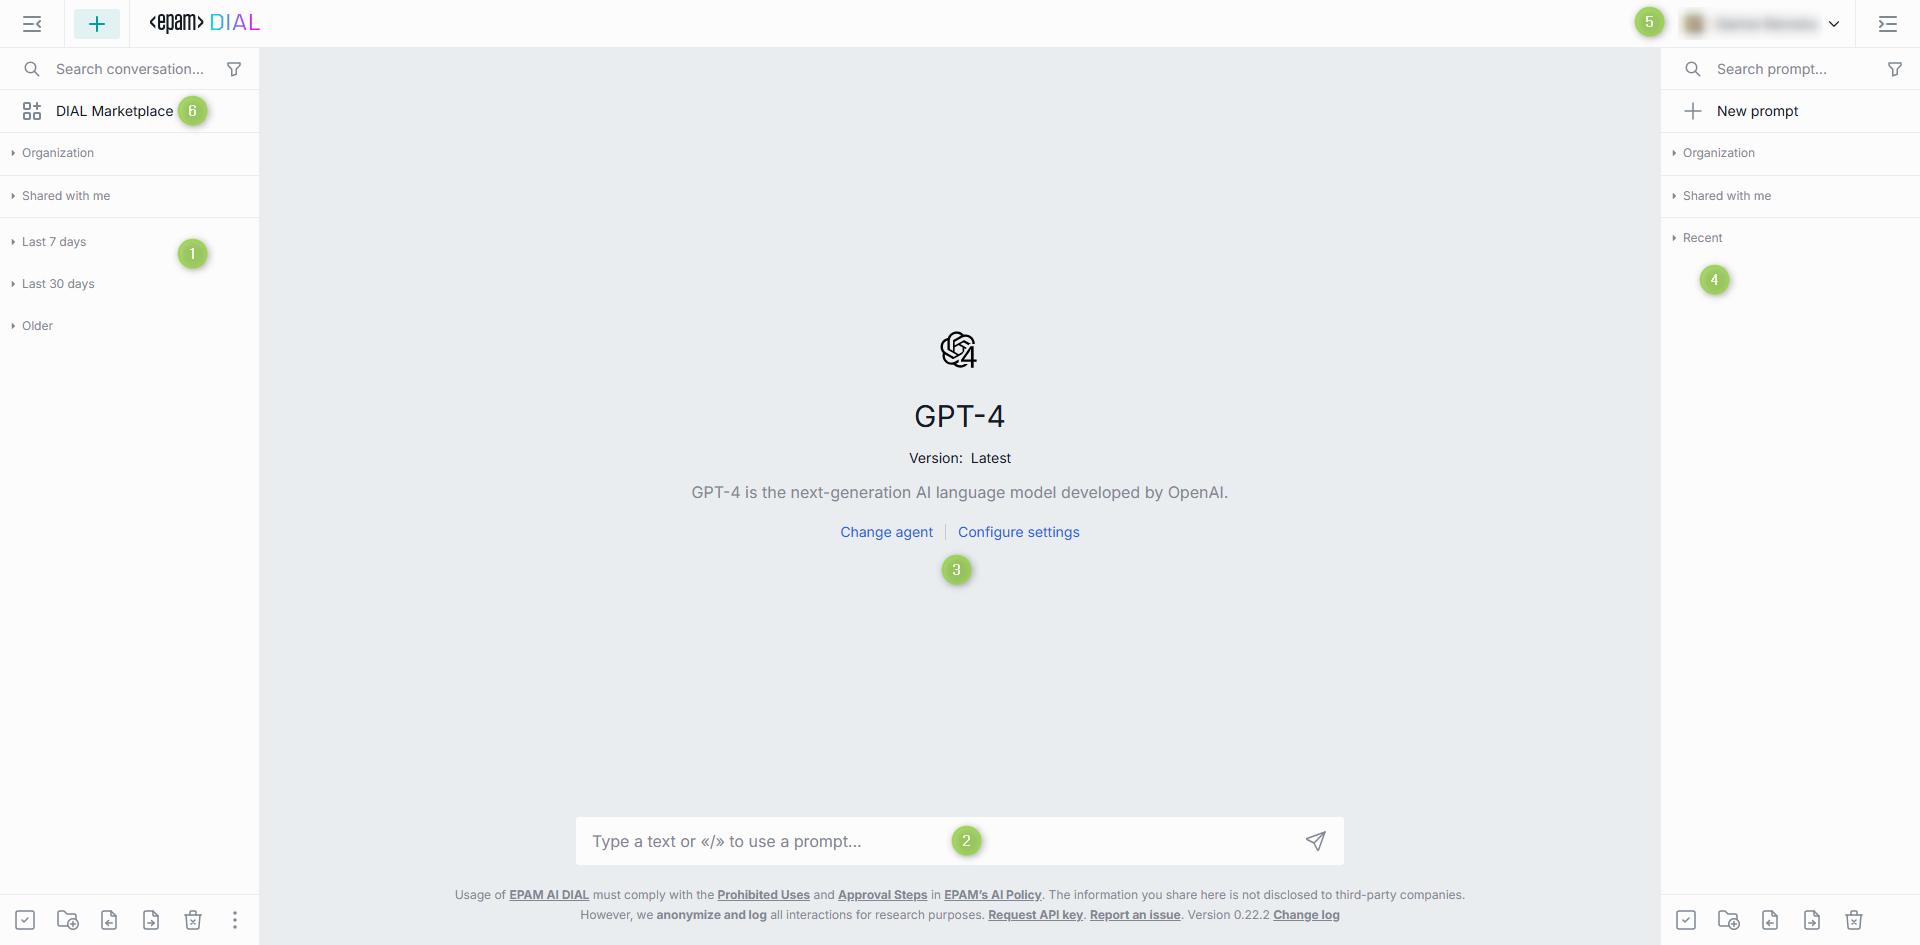
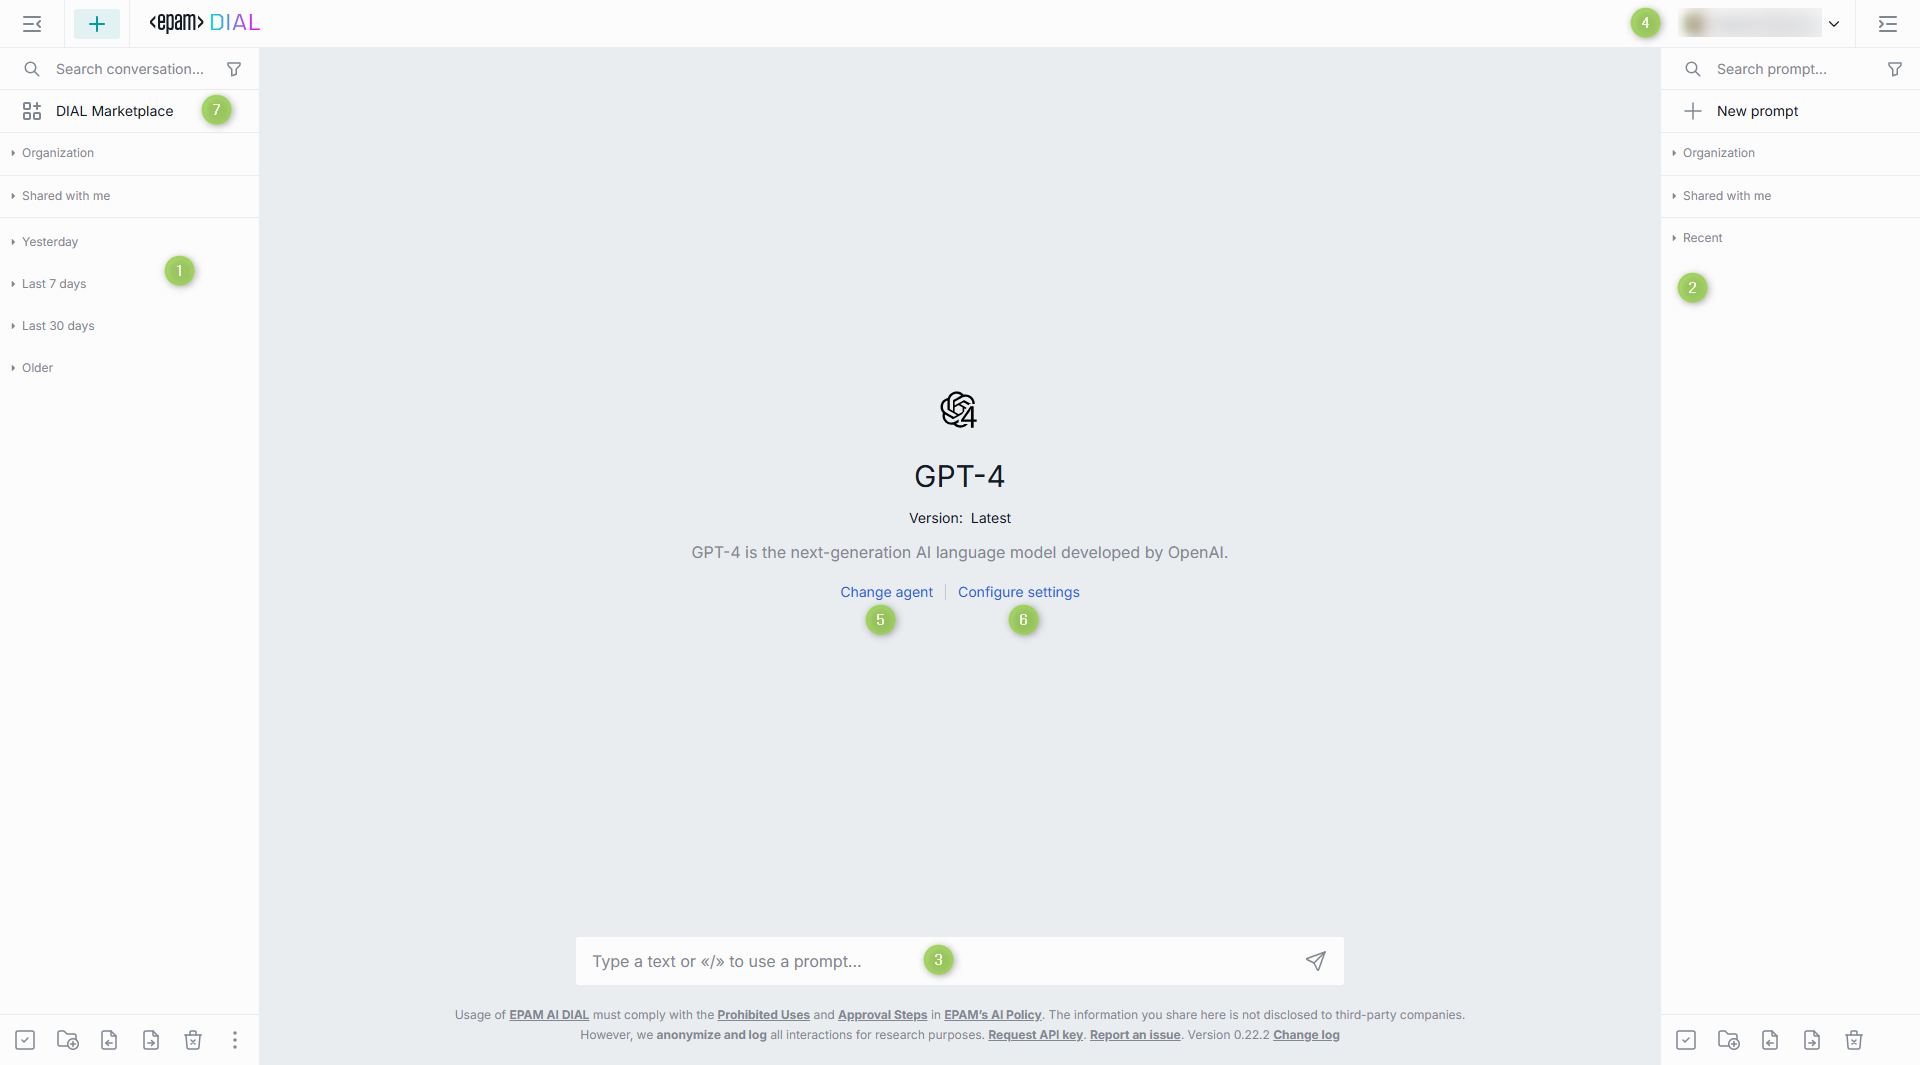
review

diff --git a/docs/user-guide.md b/docs/user-guide.md
@@ -28,11 +28,12 @@ You can also refer to other topics in this documentation:
 The AI DIAL Chat application user interface has several main sections:
 
 1. [Conversations](#conversations): Here, you can access and manage your conversations. You can collapse and expand the panel by clicking the **Hide panel** icon above it.
-2. [Chat](#chat): Use this section to enter a prompt, view results, and interact with conversational agents.
-3. [Conversation settings](#conversation-settings): by default, this section displays the last conversational agent used by the user. In this section, you can modify settings of the selected agent or change the agent.
-4. [Prompts](#prompts): In this section, you can work with prompts: create new templates, update them, and organize them in folders. You can collapse and expand the panel by clicking the **Hide panel** icon above it.
-5. [User Settings](#user-settings): In your user settings, you can customize the color theme (dark or light), replace the standard logo and access other UI customization options.
-6. [DIAL Marketplace](#marketplace): Marketplace displays all conversational agents (applications, language models and assistants) available on your DIAL environment. In My workspace, you can gather conversational agents that you want to be at hand and add custom applications.
+2. [Prompts](#prompts): In this section, you can work with prompts: create new templates, update them, and organize them in folders. You can collapse and expand the panel by clicking the **Hide panel** icon above it.
+3. [Chat](#chat): Use this section to enter a prompt, view results, and interact with conversational agents.
+4. [User Settings](#user-settings): In your user settings, you can customize the color theme (dark or light), replace the standard logo and access other UI customization options.
+5. [Agents](#agents): you can view and change conversational agent before or during a conversation.
+6. [Conversation settings](#conversation-settings): By default, this section displays the last conversational agent used by the user. In this section, you can modify settings of the selected agent or change the agent.
+7. [DIAL Marketplace](#marketplace): Marketplace displays all conversational agents (applications, language models and assistants) available on your DIAL environment. In My workspace, you can gather conversational agents that you want to be at hand and add custom applications.
 
 ![](./img/home.png)
 
@@ -41,6 +42,94 @@ The AI DIAL Chat application user interface has several main sections:
 In the AI DIAL, a conversation is a dialogue between a conversational agent, such as a language model, assistant, or application, and a human user. The agent uses natural language to interact with a human and receive/give a feedback. Within one conversation, you can refer to previous questions and answers. But different conversations don't share context.
 
 > All your conversations are stored on the server, and you can access them from any device you use.
+
+### Agents
+
+In AI DIAL Chat you can have a conversation with several types of agents: language models, applications and assistants. You can access all the available agents in [DIAL Marketplace](#dial-marketplace) and add them to [My workspace](#my-workspace). Refer to [Conversational Agents](#conversational-agents) to learn more about them.
+
+##### To change agent
+
+By default, the main window displays the last agent used by the user. You can proceed and have a dialog with this agent or change it before starting a conversation or switch to a different one during the conversation:
+
+Before you begin a conversation, click **Change agent** to invoke the **Select an agent for conversation** window. Here, you can choose among the added agents or navigate to My workspace section.
+
+![](./img/change-agent.png)
+
+In the middle of a conversation, you can view information about the current agent and change it by clicking the agent icon. 
+
+![](./img/change-agent2.png)
+
+### Conversation Settings
+
+> **Note**: The conversation settings can vary based on the agent selected. It's possible that some agents might not have any configurable settings.
+
+In the Conversation Settings, you can access and modify the following components depending on the selected agent:
+
+- [System prompt](#system-prompt)
+- [Temperature](#temperature)
+- [Addons](#addons)
+
+You can modify the conversation settings before or during the conversation:
+
+**Before** you begin a new conversation, click **Configure settings** in the main chat area to invoke the **Conversation settings** window.
+
+![](./img/chat-settings-new.png)
+
+**During** the conversation, in the conversation header you can view and modify conversation settings by clicking the **gear** icon.
+
+In the conversation header menu you also can: 
+
+* View and change the current agent: you can view information about the current agent and change it by clicking the agent icon. Refer to [Agents](#agents) to learn more.
+* Access conversation action menu: click the three-dot menu icon to access the standard conversation [actions menu](#actions).
+* Clear conversation history: click the eraser icon to clear the conversation history and start from scratch. 
+
+![](./img/chat-settings.png)
+
+#### System Prompt
+
+The system prompt in AI DIAL acts as the initial set of instructions provided to the model. It serves as a compass for the model, guiding it through the conversational landscape to ensure it remains on track and stays aligned with the intended purpose and desired outcome of the conversation.
+
+Type `/` in the text box to select any previously created prompt as a system prompt (for details, refer to the [Create](#create-1) in Prompts), and it will set the context and tone for the whole conversation.
+
+![](./img/system_prompt.png)
+
+<!-- ##### Example
+
+Let's compare a conversation with a system prompt selected and a conversation without a system prompt. For illustration purposes, we are going to use the compare mode (refer to the [Compare](#compare) section for details) and create two conversations with identical settings except for the system prompt selection.
+
+The prompt used as a system prompt is as follows:
+
+> Let's play a game. Name a city that starts with the last letter of the one that I named in a previous message and then tell me that it is my turn to name a city.
+
+![](./img/System_prompt_example_compare_settings.png)
+
+![](./img/System_prompt_example_conversation.png)
+
+| **User message** | **Language model response without a system prompt** | **Language model response with a system prompt** |
+| ------------- | ------------------------------------------------ | --------------------------------------------------------- |
+| Grodno | Grodno, also known as Hrodna, is a city in western Belarus, near the borders with Poland and Lithuania. It is the administrative center of Grodno region and has a population of around 365,000 people. Grodno is one of the oldest cities in Belarus, dating back to the 11th century. The city boasts a rich history and diverse architectural styles, including baroque, classicism, and modernism. | Oslo. It's your turn!|
+| Osaka | Osaka is a large port city and commercial center on the Japanese island of Honshu. It's known for its modern architecture, nightlife, and hearty street food. One of Osaka's most popular tourist destinations is the bustling urban area of Dotonbori, where the city's entertainment and dining scenes come to life with numerous restaurants, bars, and shops. | Ankara. Now it's your turn to name a city! |
+| Antwerp | Antwerp is a city in Belgium, and it's the country’s biggest port. It is located on the River Scheldt, linked to the North Sea by the Westerschelde estuary. Known for its many historical buildings, squares, museums, and cultural attractions, it's a popular tourist destination. | Prague. Your turn to name a city! | -->
+
+#### Temperature
+
+The temperature parameter controls the creativity and randomness of the model's output. A higher temperature (e.g., 1.0) makes the output more diverse and creative, while a lower temperature (e.g., 0.1) makes the output more focused and deterministic.
+
+![](./img/temperature.png)
+
+Adjusting the temperature allows you to balance creativity and consistency in the generated response.
+ 
+#### Addons
+
+You may want LLM to access particular data or technology to generate responses. This could be your company's database, a collection of PDF documents, calculation engines, API or any other data source or technology. You can accomplish this by using addons that allow AI models to tap into and use various data sources or technologies to produce responses.
+
+In the AI DIAL framework, an **Addon** refers to a service or component that conforms to the Open API specification. Examples of Addon implementations include semantic search, Q&A search, database query generators, or any custom logic tailored to meet specific business requirements. You can add and use custom Addons to achieve a desired system behavior.
+
+##### To select addons
+
+In the **Conversation settings** window for the selected model, click **See all addons...** to view all available addons. You can select one or more addons and then click **Apply addons** to start using them.
+
+![](./img/addons2.png)
 
 ### Actions
 
@@ -120,97 +209,6 @@ When you create a new conversation, it is automatically named after the first li
 ##### Naming conventions
 
 The following symbols in the conversation names are prohibited: tab, `"`, `:`, `;`, `/`, `\`, `,`, `=`, `{`, `}`, `%`, `&` and will be excluded. Note that you can use the `.` symbol at the start or inside a name, but the dot at the end will be automatically removed.
-
-### Conversation Settings
-
-> **Note**: The conversation settings can vary based on the agent selected. It's possible that some agents might not have any configurable settings.
-
-You can modify the conversation settings before or during the conversation:
-
-**Before** you begin a new conversation, click **Configure settings** in the main chat area to invoke the **Conversation settings** window.
-
-![](./img/chat-settings-new.png)
-
-**During** the conversation, in the conversation header you can view and modify conversation settings by clicking the gear icon.
-
-In the conversation header menu you also can: 
-
-* View and change the current agent: you can view information about the current agent and change it by clicking the agent icon.
-* Clear conversation history: click the eraser icon to clear the conversation history and start from scratch. 
-* Access conversation action menu: click the three-dot menu icon to access the standard conversation [actions menu](#actions).
-
-![](./img/chat-settings.png)
-
-In the Conversation Settings window, you can access the following components depending on the selected agent:
-
-- [Agents](#agents)
-- [System prompt](#system-prompt)
-- [Temperature](#temperature)
-- [Addons](#addons)
-
-Take a closer look at each of these elements.
-
-#### Agents
-
-In AI DIAL Chat you can have a conversation with several types of agents: language models, applications and assistants. You can access all the available agents in [DIAL Marketplace](#dial-marketplace) and add them to [My workspace](#my-workspace). Refer to [Conversational Agents](#conversational-agents) to learn more about them.
-
-##### To change agent
-
-You have the option to select an agent before starting a conversation or switch to a different one during the conversation:
-
-Before you begin a conversation, click **Change agent** to invoke the **Select an agent for conversation** window. Here, you can choose among the added agents or navigate to My workspace section.
-
-![](./img/change-agent.png)
-
-In the middle of a conversation, you can view information about the current agent and change it by clicking the agent icon. 
-
-![](./img/change-agent2.png)
-
-#### System Prompt
-
-The system prompt in AI DIAL acts as the initial set of instructions provided to the model. It serves as a compass for the model, guiding it through the conversational landscape to ensure it remains on track and stays aligned with the intended purpose and desired outcome of the conversation.
-
-Type `/` in the text box to select any previously created prompt as a system prompt (for details, refer to the [Create](#create-1) in Prompts), and it will set the context and tone for the whole conversation.
-
-![](./img/system_prompt.png)
-
-<!-- ##### Example
-
-Let's compare a conversation with a system prompt selected and a conversation without a system prompt. For illustration purposes, we are going to use the compare mode (refer to the [Compare](#compare) section for details) and create two conversations with identical settings except for the system prompt selection.
-
-The prompt used as a system prompt is as follows:
-
-> Let's play a game. Name a city that starts with the last letter of the one that I named in a previous message and then tell me that it is my turn to name a city.
-
-![](./img/System_prompt_example_compare_settings.png)
-
-![](./img/System_prompt_example_conversation.png)
-
-| **User message** | **Language model response without a system prompt** | **Language model response with a system prompt** |
-| ------------- | ------------------------------------------------ | --------------------------------------------------------- |
-| Grodno | Grodno, also known as Hrodna, is a city in western Belarus, near the borders with Poland and Lithuania. It is the administrative center of Grodno region and has a population of around 365,000 people. Grodno is one of the oldest cities in Belarus, dating back to the 11th century. The city boasts a rich history and diverse architectural styles, including baroque, classicism, and modernism. | Oslo. It's your turn!|
-| Osaka | Osaka is a large port city and commercial center on the Japanese island of Honshu. It's known for its modern architecture, nightlife, and hearty street food. One of Osaka's most popular tourist destinations is the bustling urban area of Dotonbori, where the city's entertainment and dining scenes come to life with numerous restaurants, bars, and shops. | Ankara. Now it's your turn to name a city! |
-| Antwerp | Antwerp is a city in Belgium, and it's the country’s biggest port. It is located on the River Scheldt, linked to the North Sea by the Westerschelde estuary. Known for its many historical buildings, squares, museums, and cultural attractions, it's a popular tourist destination. | Prague. Your turn to name a city! | -->
-
-#### Temperature
-
-The temperature parameter controls the creativity and randomness of the model's output. A higher temperature (e.g., 1.0) makes the output more diverse and creative, while a lower temperature (e.g., 0.1) makes the output more focused and deterministic.
-
-![](./img/temperature.png)
-
-Adjusting the temperature allows you to balance creativity and consistency in the generated response.
- 
-#### Addons
-
-You may want LLM to access particular data or technology to generate responses. This could be your company's database, a collection of PDF documents, calculation engines, API or any other data source or technology. You can accomplish this by using addons that allow AI models to tap into and use various data sources or technologies to produce responses.
-
-In the AI DIAL framework, an **Addon** refers to a service or component that conforms to the Open API specification. Examples of Addon implementations include semantic search, Q&A search, database query generators, or any custom logic tailored to meet specific business requirements. You can add and use custom Addons to achieve a desired system behavior.
-
-##### To select addons
-
-In the **Conversation settings** window for the selected model, click **See all addons...** to view all available addons. You can select one or more addons and then click **Apply addons** to start using them.
-
-![](./img/addons2.png)
 
 ### Share
 
